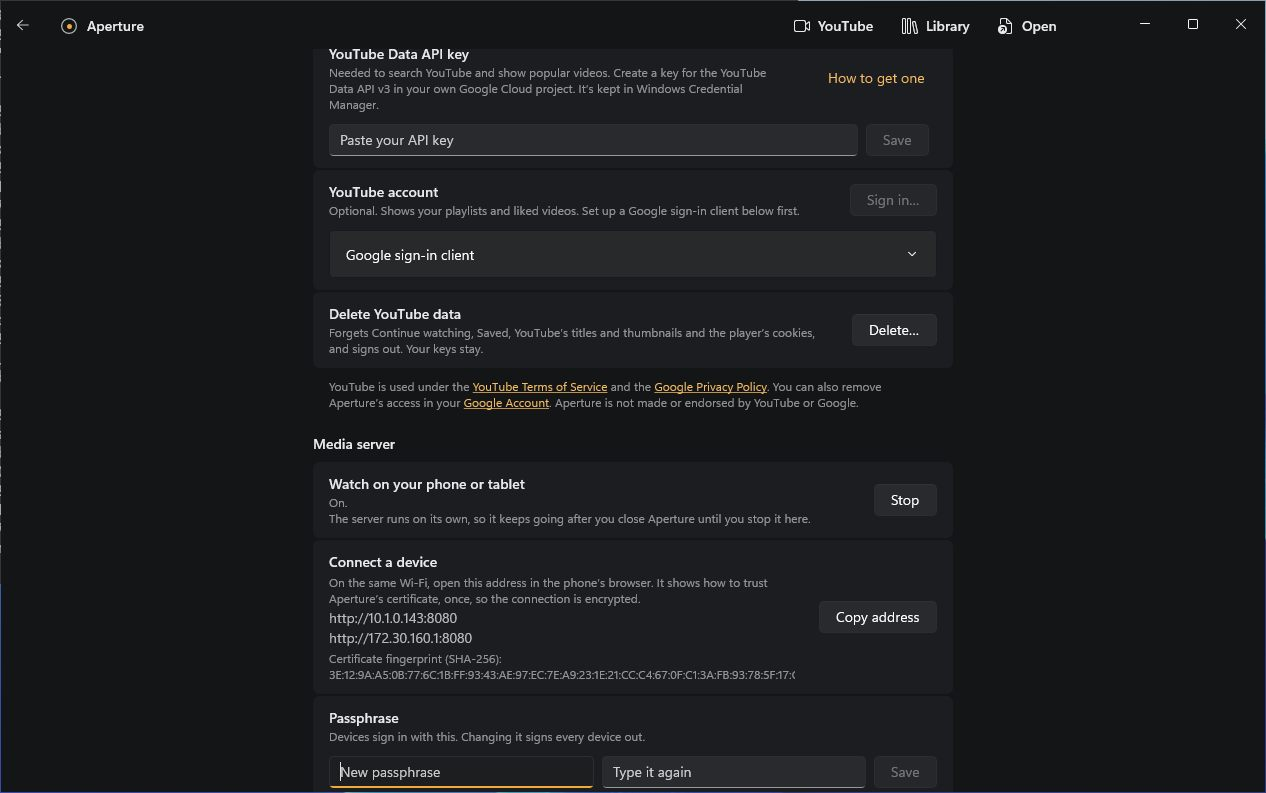
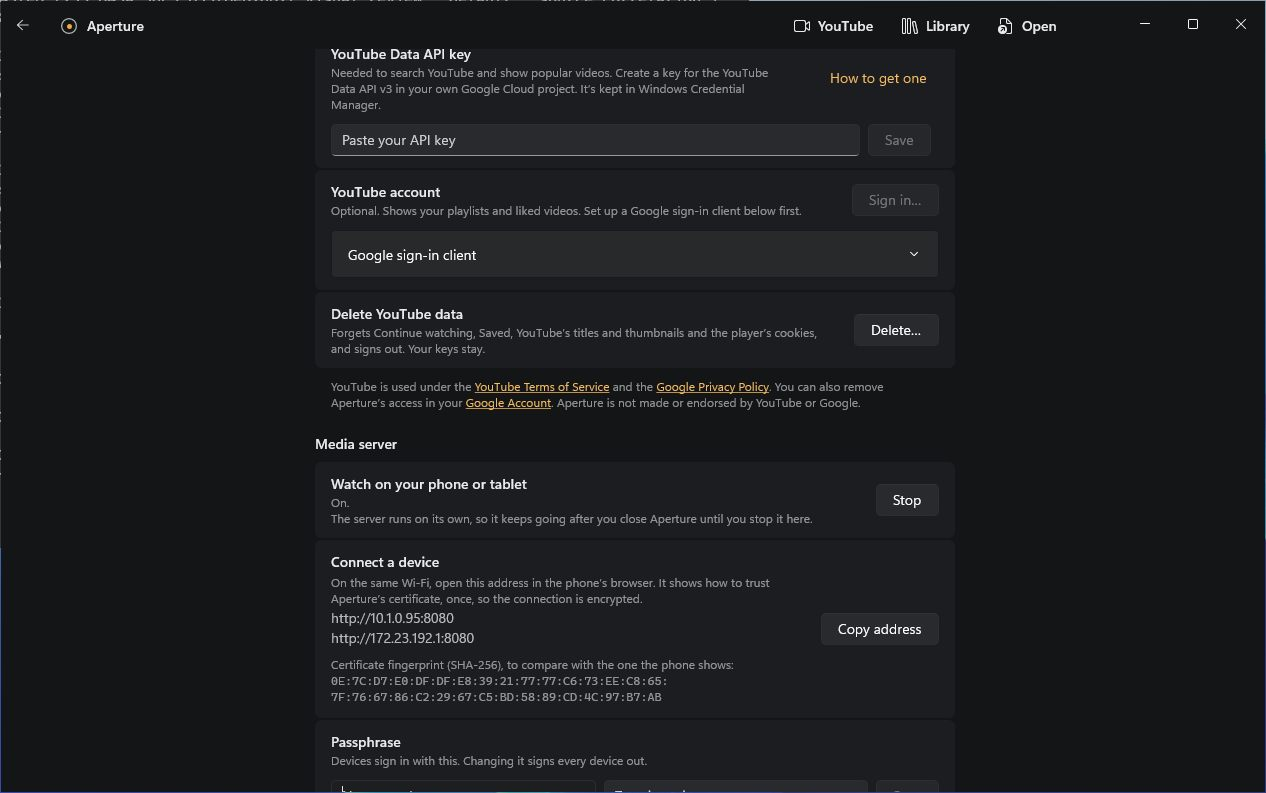
Use the visual review screenshots taken after the fingerprint fix
Claude-Session: https://claude.ai/code/session_01Cs5TEZ7KWTppXmkEaMNrfx

diff --git a/docs/reports/milestone-7.md b/docs/reports/milestone-7.md
@@ -79,7 +79,7 @@ The visual-review job's new Media server step drives the real Windows app: Setti
 | ![Before starting](milestone-7/90-settings-media-server.jpg) | ![Running](milestone-7/91-settings-media-server-running.jpg) |
 | Settings › Media server before starting: Start is the accent button | Running: the address to open on a phone and the certificate fingerprint |
 
-The first Windows run showed the fingerprint cut off at the edge of its row, since it has no spaces to wrap at. It now has its own label and shows as two monospaced lines, so it can be compared with the phone in full; the screenshots above were taken before that fix.
+The first Windows run showed the fingerprint cut off at the edge of its row, since it has no spaces to wrap at. It now has its own label and shows as two monospaced lines, so it can be compared with the phone in full, as the second screenshot (from the run after the fix) shows.
 
 ## 5. Known limitations
 
